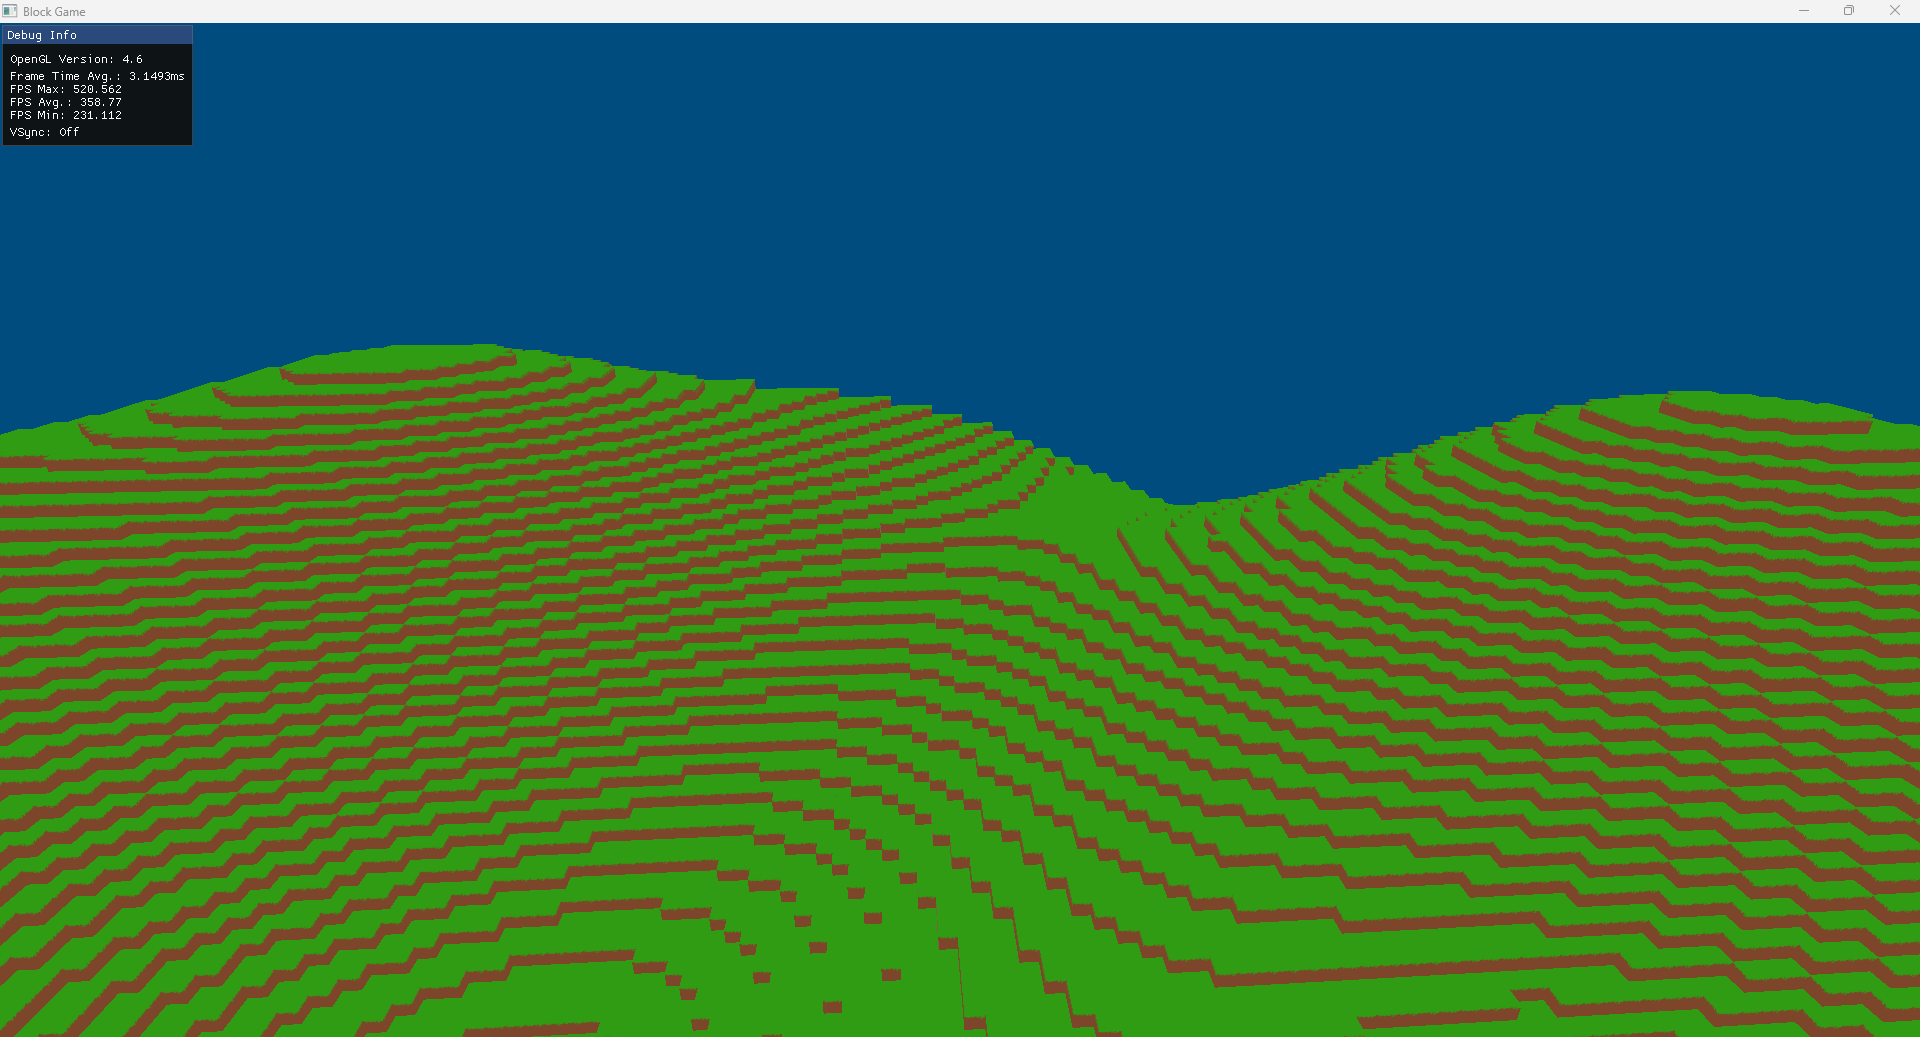
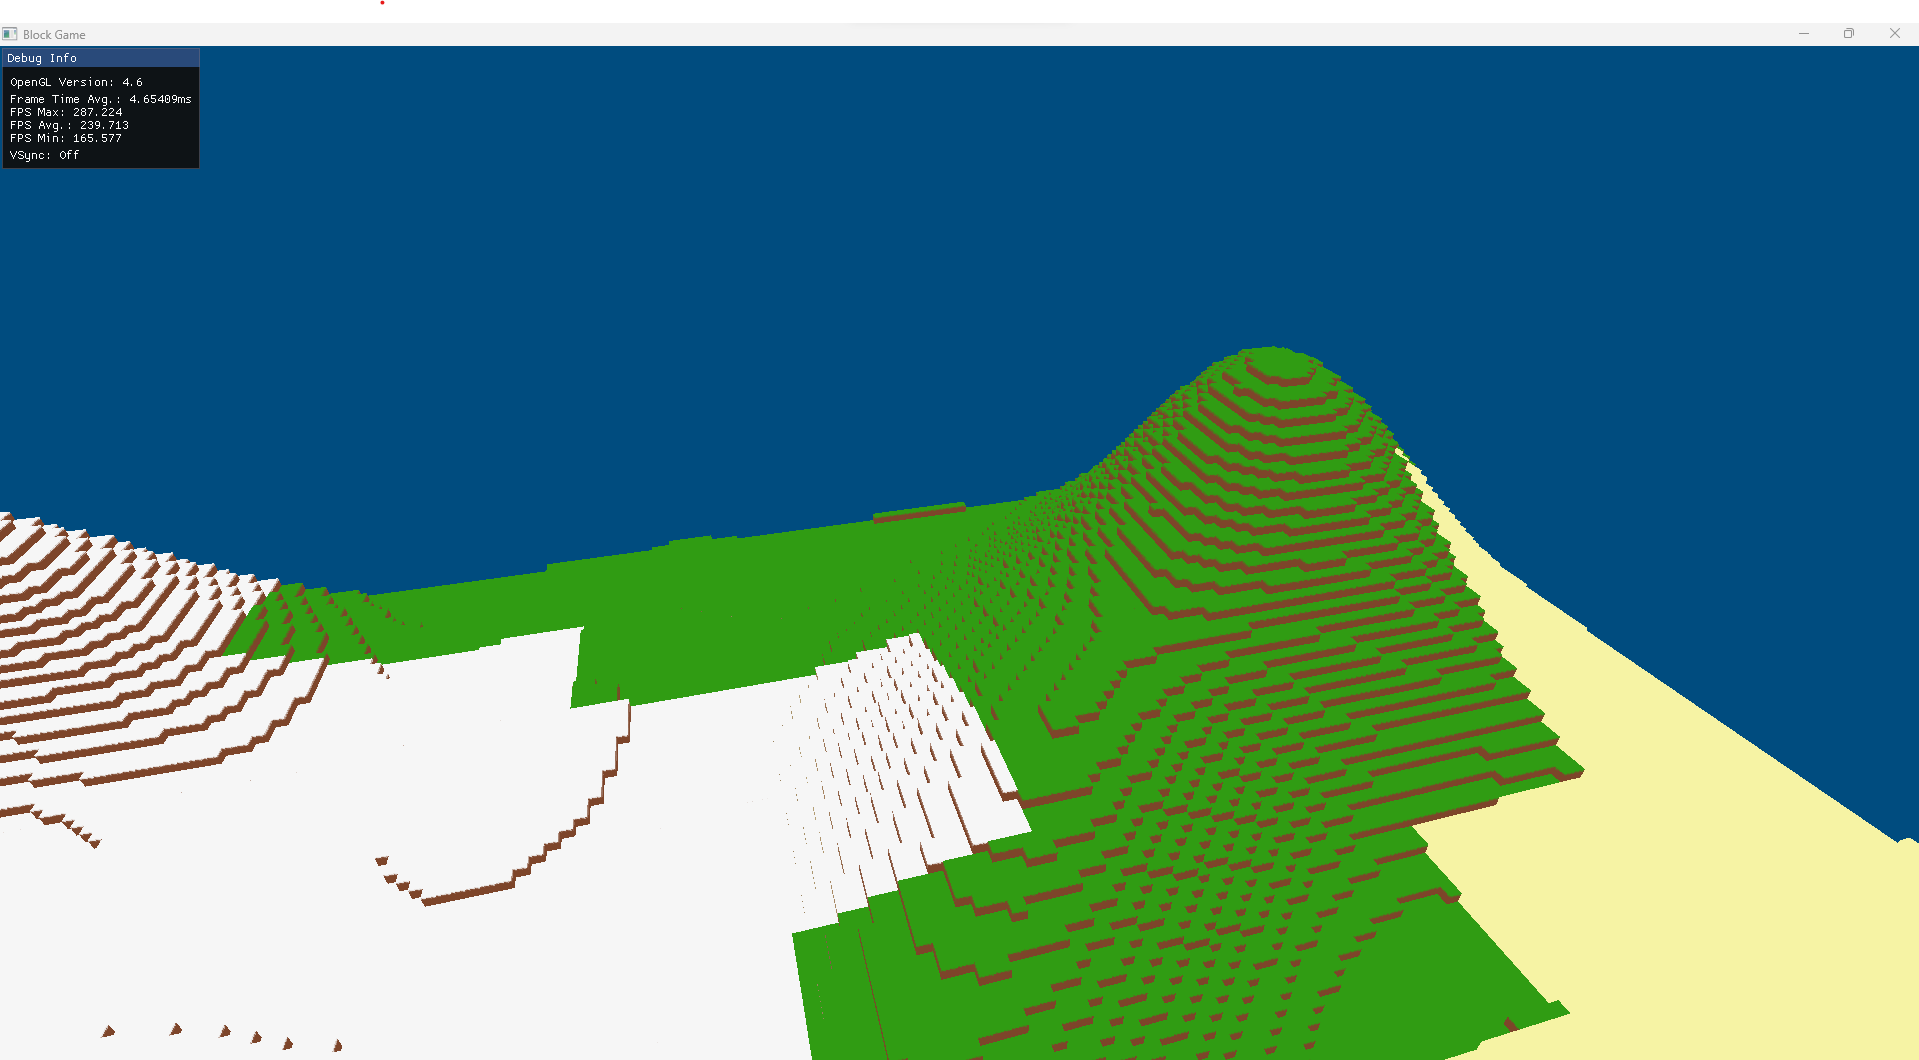
Support for Grassland, Desert and Snow Biomes
The world uses a noise generator to get a temperature value for each chunk which determines the biome. This will eventually expand to take into account elevation, humidity etc.

diff --git a/BlockGame/chunk.cpp b/BlockGame/chunk.cpp
@@ -6,13 +6,14 @@
 #include "meshComponent.h"
 #include "transformComponent.h"
 
-Chunk::Chunk(std::vector<float> chunkSectionNoise, int minY, int maxY, glm::vec3 startingPosition, int size, int seed)
+Chunk::Chunk(Biome biome, std::vector<float> chunkSectionNoise, int minY, int maxY, glm::vec3 startingPosition, int size, int seed)
 	: Entity()
 {
 	size_.store(size);
 	blocks_ = std::vector<std::vector<std::vector<uint8_t>>>();
 	seed_.store(seed);
 	isUnloaded.store(false);
+	biome_ = biome;
 
 	AddComponent("transform", new TransformComponent(this, startingPosition, glm::vec3(0.0f, 0.0f, 0.0f), glm::vec3(1.0f, 1.0f, 1.0f)));
 	transformComponent = static_cast<TransformComponent*>(GetComponentByName("transform"));
@@ -24,11 +25,13 @@ Chunk::Chunk(std::vector<float> chunkSectionNoise, int minY, int maxY, glm::vec3
 
 	AddComponent("mesh", new MeshComponent(this, new Mesh(texture_)));
 	meshComponent = static_cast<MeshComponent*>(GetComponentByName("mesh"));
-	TextureAtlas textureAtlas = { 3, 6 };
+	TextureAtlas textureAtlas = { 5, 6 };
 
 	grassSubTextures_ = GetSubTexturesOfRowFromTextureAtlas(0, textureAtlas);
 	dirtSubTextures_ = GetSubTexturesOfRowFromTextureAtlas(1, textureAtlas);
 	stoneSubTextures_ = GetSubTexturesOfRowFromTextureAtlas(2, textureAtlas);
+	sandSubTextures_ = GetSubTexturesOfRowFromTextureAtlas(3, textureAtlas);
+	snowSubTextures_ = GetSubTexturesOfRowFromTextureAtlas(4, textureAtlas);
 
 	GenerateMesh();
 }
@@ -122,6 +125,12 @@ void Chunk::GenerateMesh(bool isOnMainThread)
 						case BLOCK_TYPE_STONE:
 							subTexture = stoneSubTextures_.at(subTextureCol);
 							break;
+						case BLOCK_TYPE_SAND:
+							subTexture = sandSubTextures_.at(subTextureCol);
+							break;
+						case BLOCK_TYPE_SNOW:
+							subTexture = snowSubTextures_.at(subTextureCol);
+							break;
 						}
 
 						vertices.push_back({ meshX,		meshY + 1,	meshZ, subTexture.startS, subTexture.startT }); // Bottom-Left
@@ -159,6 +168,12 @@ void Chunk::GenerateMesh(bool isOnMainThread)
 							break;
 						case BLOCK_TYPE_STONE:
 							subTexture = stoneSubTextures_.at(subTextureCol);
+							break;
+						case BLOCK_TYPE_SAND:
+							subTexture = sandSubTextures_.at(subTextureCol);
+							break;
+						case BLOCK_TYPE_SNOW:
+							subTexture = snowSubTextures_.at(subTextureCol);
 							break;
 						}
 
@@ -198,6 +213,12 @@ void Chunk::GenerateMesh(bool isOnMainThread)
 						case BLOCK_TYPE_STONE:
 							subTexture = stoneSubTextures_.at(subTextureCol);
 							break;
+						case BLOCK_TYPE_SAND:
+							subTexture = sandSubTextures_.at(subTextureCol);
+							break;
+						case BLOCK_TYPE_SNOW:
+							subTexture = snowSubTextures_.at(subTextureCol);
+							break;
 						}
 
 						vertices.push_back({ meshX + 1,	meshY,		meshZ, subTexture.startS, subTexture.startT }); // Bottom-Left
@@ -235,6 +256,12 @@ void Chunk::GenerateMesh(bool isOnMainThread)
 							break;
 						case BLOCK_TYPE_STONE:
 							subTexture = stoneSubTextures_.at(subTextureCol);
+							break;
+						case BLOCK_TYPE_SAND:
+							subTexture = sandSubTextures_.at(subTextureCol);
+							break;
+						case BLOCK_TYPE_SNOW:
+							subTexture = snowSubTextures_.at(subTextureCol);
 							break;
 						}
 
@@ -274,6 +301,12 @@ void Chunk::GenerateMesh(bool isOnMainThread)
 						case BLOCK_TYPE_STONE:
 							subTexture = stoneSubTextures_.at(subTextureCol);
 							break;
+						case BLOCK_TYPE_SAND:
+							subTexture = sandSubTextures_.at(subTextureCol);
+							break;
+						case BLOCK_TYPE_SNOW:
+							subTexture = snowSubTextures_.at(subTextureCol);
+							break;
 						}
 
 						vertices.push_back({ meshX,		meshY,		meshZ, subTexture.startS, subTexture.startT }); // Bottom-Left
@@ -311,6 +344,12 @@ void Chunk::GenerateMesh(bool isOnMainThread)
 							break;
 						case BLOCK_TYPE_STONE:
 							subTexture = stoneSubTextures_.at(subTextureCol);
+							break;
+						case BLOCK_TYPE_SAND:
+							subTexture = sandSubTextures_.at(subTextureCol);
+							break;
+						case BLOCK_TYPE_SNOW:
+							subTexture = snowSubTextures_.at(subTextureCol);
 							break;
 						}
 
@@ -413,6 +452,35 @@ void Chunk::UseNoise(std::vector<float> chunkSectionNoise, int minY, int maxY)
 
 	glm::vec3 position = transformComponent->GetTranslation();
 
+	// Default values
+	uint8_t surfaceBlock = BLOCK_TYPE_GRASS;
+	uint8_t subSurfaceBlockHigh = BLOCK_TYPE_DIRT;
+	uint8_t subSurfaceBlockLow = BLOCK_TYPE_STONE;
+
+	switch(biome_)
+	{
+	case Biome::Desert:
+		surfaceBlock = BLOCK_TYPE_SAND;
+		subSurfaceBlockHigh = BLOCK_TYPE_SAND;
+		subSurfaceBlockLow = BLOCK_TYPE_SAND;
+		break;
+	case Biome::Grassland:
+		surfaceBlock = BLOCK_TYPE_GRASS;
+		subSurfaceBlockHigh = BLOCK_TYPE_DIRT;
+		subSurfaceBlockLow = BLOCK_TYPE_STONE;
+		break;
+	case Biome::Snow:
+		surfaceBlock = BLOCK_TYPE_SNOW;
+		subSurfaceBlockHigh = BLOCK_TYPE_DIRT;
+		subSurfaceBlockLow = BLOCK_TYPE_STONE;
+		break;
+	case Biome::Rock:
+		surfaceBlock = BLOCK_TYPE_STONE;
+		subSurfaceBlockHigh = BLOCK_TYPE_STONE;
+		subSurfaceBlockLow = BLOCK_TYPE_STONE;
+		break;
+	}
+
 	int currentBlockIndex = 0;
 	int currentNoiseIndex = 0;
 	for (int z = 0; z < size_.load(); z++)
@@ -433,9 +501,13 @@ void Chunk::UseNoise(std::vector<float> chunkSectionNoise, int minY, int maxY)
 
 				float currentY = position.y + (float)y;
 
-				if ((int)currentY < (int)ySurface)
+				if ((int)currentY < (int)ySurface && currentY > (int)ySurface - 3)
 				{
-					currentBlock = BLOCK_TYPE_DIRT;
+					currentBlock = subSurfaceBlockHigh;
+				}
+				else if ((int)currentY < (int)ySurface)
+				{
+					currentBlock = subSurfaceBlockLow;
 				}
 				else if ((int)currentY > (int)ySurface)
 				{
@@ -443,7 +515,7 @@ void Chunk::UseNoise(std::vector<float> chunkSectionNoise, int minY, int maxY)
 				}
 				else
 				{
-					currentBlock = BLOCK_TYPE_GRASS;
+					currentBlock = surfaceBlock;
 				}
 
 				xRow.push_back(currentBlock);
@@ -465,10 +537,11 @@ void Chunk::Unload()
 	isUnloaded.store(true);
 }
 
-void Chunk::Recreate(std::vector<float> chunkSectionNoise, int minY, int maxY, glm::vec3 newStartingPosition, int seed, bool isOnMainThread)
+void Chunk::Recreate(Biome biome, std::vector<float> chunkSectionNoise, int minY, int maxY, glm::vec3 newStartingPosition, int seed, bool isOnMainThread)
 {
 	seed_.store(seed);
 	blocks_.clear();
+	biome_ = biome;
 	transformComponent->SetTranslation(newStartingPosition);
 	UseNoise(chunkSectionNoise, minY, maxY);
 	GenerateMesh(isOnMainThread);

diff --git a/BlockGame/world.cpp b/BlockGame/world.cpp
@@ -13,11 +13,25 @@ World::World(glm::vec3 currentPlayerPos, int renderDistance)
 	renderDistance_ = renderDistance;
 
 	auto fastNoiseSimplex = FastNoise::New<FastNoise::Simplex>();
-	fractalNoise_ = FastNoise::New<FastNoise::FractalFBm>();
-	fractalNoise_->SetSource(fastNoiseSimplex);
-	fractalNoise_->SetOctaveCount(2);
-	fractalNoise_->SetLacunarity(0);
-	fractalNoise_->SetGain(0.5f);
+	terrainNoise_ = FastNoise::New<FastNoise::FractalFBm>();
+	terrainNoise_->SetSource(fastNoiseSimplex);
+	terrainNoise_->SetOctaveCount(3);
+	terrainNoise_->SetLacunarity(1);
+	terrainNoise_->SetGain(0.5f);
+
+	auto heightScaleNoiseSimplex = FastNoise::New<FastNoise::Simplex>();
+	heightScaleNoise_ = FastNoise::New<FastNoise::FractalFBm>();
+	heightScaleNoise_->SetSource(heightScaleNoiseSimplex);
+	heightScaleNoise_->SetOctaveCount(1);
+	heightScaleNoise_->SetLacunarity(1);
+	heightScaleNoise_->SetGain(1.0f);
+
+	auto temperatureNoiseSimplex = FastNoise::New<FastNoise::Simplex>();
+	temperatureNoise_ = FastNoise::New<FastNoise::FractalFBm>();
+	temperatureNoise_->SetSource(fastNoiseSimplex);
+	temperatureNoise_->SetOctaveCount(1);
+	temperatureNoise_->SetLacunarity(2);
+	temperatureNoise_->SetGain(1.0f);
 
 	worldWorker_ = new WorldWorker(1);
 
@@ -32,7 +46,9 @@ World::World(glm::vec3 currentPlayerPos, int renderDistance)
 			std::vector<float> chunkSectionNoise = GetNoiseForChunkSection(startX + x * 16.0f, startZ + z * 16.0f, 16);
 
 			for (int y = yMin; y <= yMax; y++) {
-				chunks_.push_back(new Chunk(chunkSectionNoise, yMin, yMax, glm::vec3(startX + (x * 16.0f), y * 16.0f, startZ + (z * 16.0f)), 16, seed_));
+				float temperature = 0.0f;
+				temperatureNoise_->GenUniformGrid2D(&temperature, (startX + x * 16.0f)/16.0f, (startZ + z * 16.0f)/16.0f, 1, 1, 0.05f, seed_);
+				chunks_.push_back(new Chunk(World::GetBiomeFromTemperature(temperature), chunkSectionNoise, yMin, yMax, glm::vec3(startX + (x * 16.0f), y * 16.0f, startZ + (z * 16.0f)), 16, seed_));
 			}
 		}
 	}
@@ -187,7 +203,9 @@ bool World::LoadNewChunksAsync(int startX, int endX, int startZ, int endZ, std::
 				}
 			}
 
-			chunkIndexes[i]->Recreate(chunkNoiseSections.at(chunkNoiseSectionInd).noise, yMin, yMax, newPosition, seed_, false);
+			float temperature = 0.0f;
+			temperatureNoise_->GenUniformGrid2D(&temperature, newPosition.x/16.0f, newPosition.z/16.0f, 1, 1, 0.05f, seed_);
+			chunkIndexes[i]->Recreate(GetBiomeFromTemperature(temperature), chunkNoiseSections.at(chunkNoiseSectionInd).noise, yMin, yMax, newPosition, seed_, false);
 		}
 	}
 	float recreateChunksEndTime = glfwGetTime();
@@ -198,9 +216,10 @@ bool World::LoadNewChunksAsync(int startX, int endX, int startZ, int endZ, std::
 
 std::vector<float> World::GetNoiseForChunkSection(int x, int z, int size)
 {
-	auto noiseOutput = std::vector<float>(size * size);
-	fractalNoise_->GenUniformGrid2D(
-		noiseOutput.data(),
+	auto terrainNoiseOutput = std::vector<float>(size * size);
+	auto heightScaleNoiseOutput = std::vector<float>(size * size);
+	terrainNoise_->GenUniformGrid2D(
+		terrainNoiseOutput.data(),
 		x,
 		z,
 		size,
@@ -209,5 +228,53 @@ std::vector<float> World::GetNoiseForChunkSection(int x, int z, int size)
 		seed_
 	);
 
-	return noiseOutput;
+	heightScaleNoise_->GenUniformGrid2D(
+		heightScaleNoiseOutput.data(),
+		x,
+		z,
+		size,
+		size,
+		0.01f,
+		seed_
+	);
+
+	std::vector<float> combinedNoise = std::vector<float>();
+
+	int currentNoiseIndex = 0;
+	for (int z=0; z < 16; z++)
+	{
+		for (int x=0; x < 16; x++)
+		{
+			float heightScaled = heightScaleNoiseOutput.at(currentNoiseIndex);
+			heightScaled += 1.0f;
+			heightScaled /= 2.0f;
+
+			float noiseVal = terrainNoiseOutput.at(currentNoiseIndex) * heightScaled;
+			combinedNoise.push_back(noiseVal);
+
+			currentNoiseIndex++;
+		}
+	}
+
+	return combinedNoise;
+}
+
+Biome World::GetBiomeFromTemperature(float temperature)
+{
+	Biome biome = Biome::Grassland;
+
+	if (temperature <= -0.7f)
+	{
+		biome = Biome::Snow;
+	}
+	else if (temperature > -0.7f && temperature <= -0.3f)
+	{
+		biome = Biome::Grassland;
+	}
+	else
+	{
+		biome = Biome::Desert;
+	}
+
+	return biome;
 }

diff --git a/BlockGame/chunk.h b/BlockGame/chunk.h
@@ -15,6 +15,16 @@
 #define BLOCK_TYPE_GRASS 1
 #define BLOCK_TYPE_DIRT 2
 #define BLOCK_TYPE_STONE 3
+#define BLOCK_TYPE_SAND 4
+#define BLOCK_TYPE_SNOW 5
+
+enum class Biome
+{
+	Snow,
+	Grassland,
+	Desert,
+	Rock
+};
 
 class Chunk : public Entity
 {
@@ -37,18 +47,22 @@ class Chunk : public Entity
 	std::vector<SubTexture> grassSubTextures_;
 	std::vector<SubTexture> dirtSubTextures_;
 	std::vector<SubTexture> stoneSubTextures_;
+	std::vector<SubTexture> sandSubTextures_;
+	std::vector<SubTexture> snowSubTextures_;
+
+	Biome biome_;
 protected:
 	void UseNoise(std::vector<float> chunkSectionNoise, int minY, int maxY);
 	void GenerateMesh(bool isOnMainThread = true);
 
 	bool IsInChunk(int x, int y, int z);
 public:
-	Chunk(std::vector<float> chunkSectionNoise, int minY, int maxY, glm::vec3 startingPosition, int size, int seed);
+	Chunk(Biome biome, std::vector<float> chunkSectionNoise, int minY, int maxY, glm::vec3 startingPosition, int size, int seed);
 
 	void Draw();
 
 	void Unload();
-	void Recreate(std::vector<float> chunkSectionNoise, int minY, int maxY, glm::vec3 newStartingPosition, int seed, bool isOnMainThread = true);
+	void Recreate(Biome biome, std::vector<float> chunkSectionNoise, int minY, int maxY, glm::vec3 newStartingPosition, int seed, bool isOnMainThread = true);
 
 	void Update() override;
 };

diff --git a/BlockGame/world.h b/BlockGame/world.h
@@ -17,14 +17,19 @@ class World
 	glm::vec3 lastKnownPlayerPos_;
 	std::vector<Chunk*> chunks_;
 
-	FastNoise::SmartNode<FastNoise::FractalFBm> fractalNoise_;
+	FastNoise::SmartNode<FastNoise::FractalFBm> terrainNoise_;
+	FastNoise::SmartNode<FastNoise::FractalFBm> heightScaleNoise_;
+	FastNoise::SmartNode<FastNoise::FractalFBm> temperatureNoise_;
+
 	int seed_;
 	int renderDistance_;
 	WorldWorker* worldWorker_;
 	std::mutex loadingChunksMutex_;
 	std::mutex generatingNoiseMutex_;
 	int yMin = 0; // num. chunks
-	int yMax = 3; // num. chunks (i.e. max - min would be the number of chunks high)
+	int yMax = 4; // num. chunks (i.e. max - min would be the number of chunks high)
+protected:
+	static Biome GetBiomeFromTemperature(float temperature);
 public:
 	World(glm::vec3 currentPlayerPos, int renderDistance);
 

diff --git a/README.md b/README.md
@@ -10,6 +10,7 @@ You see a board of planned features here: https://trello.com/b/FBFUMqoR/blockgam
 # Current Features
 
 - Infinite terrain (on x and z axis). You can set minimum and maximum y values for terrain to render. For example a minimum y of 0 and maximum y of 3 would result in 3 chunks being used for the height in terrain generation.
+- Grassland, Desert and Snow biomes chosen based on a noise value per chunk that acts as the temperature of the chunk (low temperature creates a snow biome chunk, medium creates grassland, high creates desert). This will be expanded to be more intelligent i.e. take into account other noise-generated paramaters.
 - Basic Entity-Component System (Entities have a list of components that store a reference to their owner allowing interaction between components)
 - Free-form controller (doesn't have delta time yet so speed depends on frame-rate)
 - Seamless terrain using simplex noise (appears like hilly grassland)
